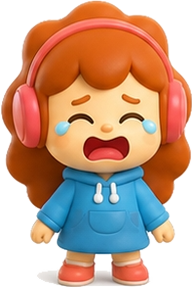
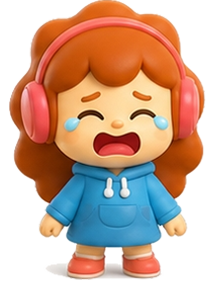
정답 시 이미지 변경 및 파일명 오류 수정

diff --git a/step1-cross.html b/step1-cross.html
@@ -192,12 +192,15 @@
                     // ✅ 정답
                     const msgs = ['와! 맞았어! 👍', '정말 대단해! ✨', '정답이야! 🎈', '멋지다! 😍'];
                     setMascotMessage(msgs[Math.floor(Math.random() * msgs.length)]);
-                    setMascotImg('img/cha_02.png');
+                    setMascotImg('img/cha_02_02.png');
                     setFilled({ ...filled, [activeBlank.id]: card.syl });
                     setUsedCards([...usedCards, card.id]);
                     setJustId(activeBlank.id);
                     setActiveId(null);
-                    setTimeout(() => setJustId(null), 700);
+                    setTimeout(() => {
+                        setJustId(null);
+                        setMascotImg('img/cha_02.png');
+                    }, 1000);
                 } else {
                     // ❌ 오답 - 강화된 액션
                     const msgs = [